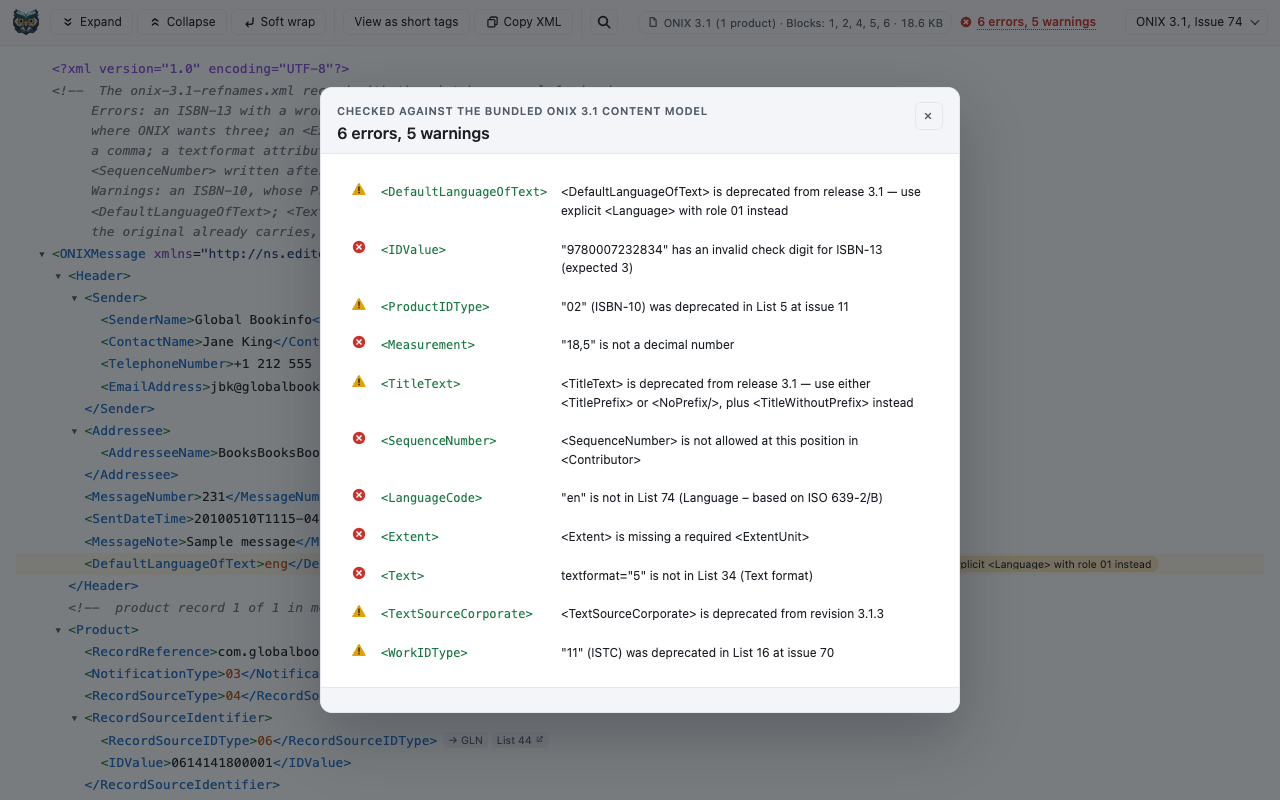
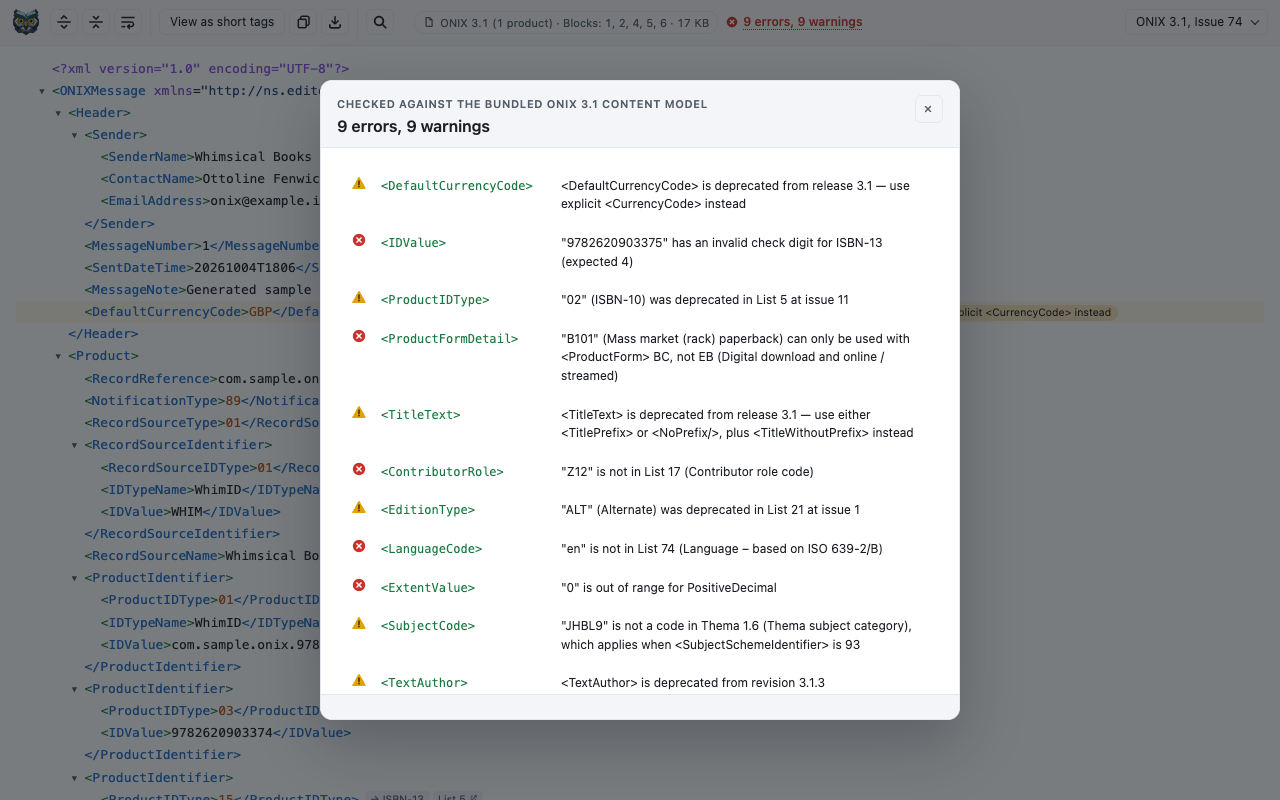
Updated screenshots

diff --git a/safari/README.md b/safari/README.md
@@ -211,7 +211,7 @@ Settings → Developer → *Allow unsigned extensions*, then *Add Temporary
 Extension…* → `dist/safari/onix-viewer-<v>-safari`; Settings → Extensions →
 turn ONIX Viewer on **in the profile you will browse from** (a temporary
 extension is enabled in the profile it was added from and nowhere else);
-open `http://127.0.0.1:8000/Onix/onix-3.1-refnames-defects.xml`, click the
+open `http://127.0.0.1:8000/Onix/onix-3.1-whimsical.xml`, click the
 extension's toolbar button and choose *Always Allow on Every Website*,
 reload. A cold load needs a name Safari has not cached, so copy the feed to
 a new name in `dist/` for each one. Look for:
